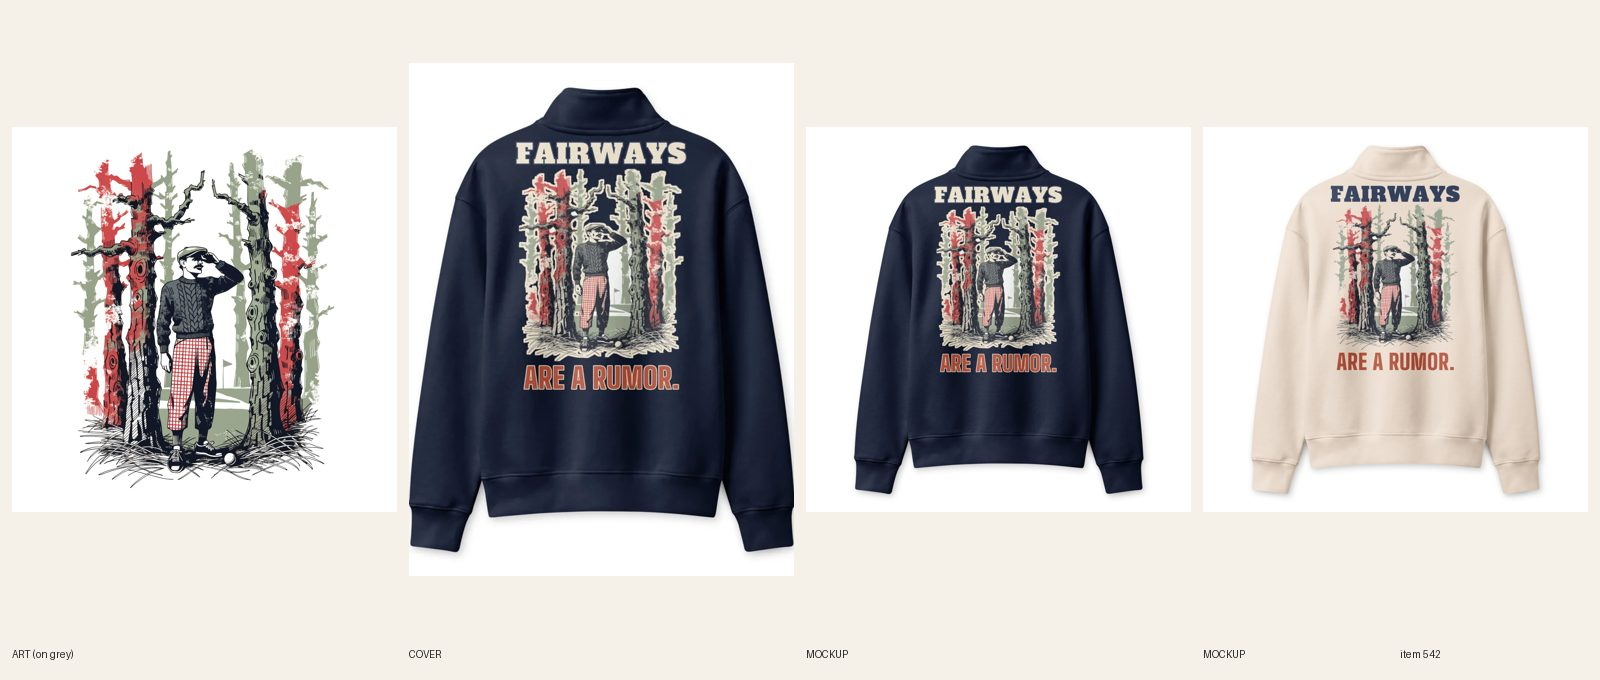
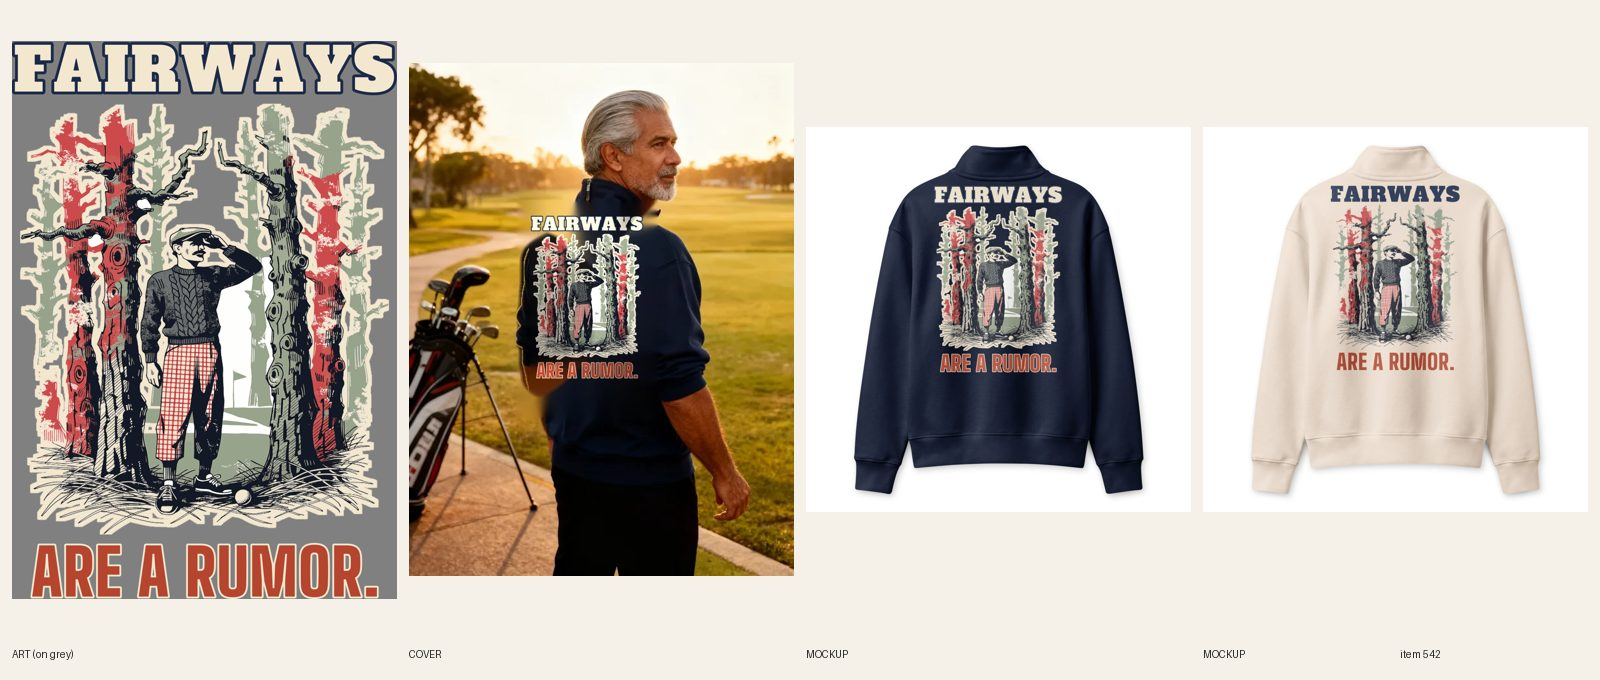
[B] review 542 Fairways Are a Rumor half zip (cover redo)
Claude-Session: https://claude.ai/code/session_01NqrZ4Fz461FLJisEJ9m3es

diff --git a/src/data/covers.ts b/src/data/covers.ts
@@ -530,7 +530,7 @@ export const covers: Record<string, { src: string; alt: string }> = {
   'unisex-pitbull-velvet-hippo-social-club-hoodie': { src: '/covers/unisex-pitbull-velvet-hippo-social-club-hoodie.webp', alt: 'Man and woman in matching sand Velvet Hippo Social Club pitbull hoodies smiling at a neighborhood dog park on a crisp fall morning with a pit bull at their feet' },
   'womens-softball-mom-travel-ball-took-my-saturdays-graphic-tee': { src: '/covers/womens-softball-mom-travel-ball-took-my-saturdays-graphic-tee.webp', alt: 'Woman in a ball cap at a travel-ball tournament with bleachers and a backstop behind her and a cooler beside her wearing the Travel Ball Took My Saturdays navy tee' },
   'mens-gym-twelve-labors-zero-cardio-hoodie': { src: '/covers/mens-gym-twelve-labors-zero-cardio-hoodie.webp', alt: 'Man in a sand Twelve Labors. Zero Cardio. gym hoodie smiling in a snowy garage gym with a squat rack and a treadmill with a towel on it behind him' },
-  'mens-golf-fairways-are-a-rumor-half-zip': { src: '/covers/mens-golf-fairways-are-a-rumor-half-zip.webp', alt: 'Navy half zip pullover seen from the back with a golfer in a flat cap shading his eyes among tall pines under FAIRWAYS in cream capitals and ARE A RUMOR. in faded red' },
+  'mens-golf-fairways-are-a-rumor-half-zip': { src: '/covers/mens-golf-fairways-are-a-rumor-half-zip.webp', alt: 'Man in a navy half zip pullover seen from behind on a golf course first tee at golden hour, the back print of a golfer among tall pines under FAIRWAYS in cream capitals and ARE A RUMOR. in faded red' },
   'mens-dog-dad-unpaid-doorman-graphic-tee': { src: '/covers/mens-dog-dad-unpaid-doorman-graphic-tee.webp', alt: 'Man with thick dark wavy hair and a full trimmed beard smiling in a cream Dog Dad Unpaid Doorman tee in a sunny back porch doorway with a scruffy mixed-breed dog sitting at his feet' },
   'mens-christian-rebuilt-by-a-carpenter-graphic-tee': { src: '/covers/mens-christian-rebuilt-by-a-carpenter-graphic-tee.webp', alt: 'Man with short grey hair and a salt-and-pepper beard smiling in a cream Rebuilt by a Carpenter tee in a sunlit woodshop with hand tools on the wall behind him' },
   'womens-fishing-out-fished-him-again-graphic-tee': { src: '/covers/womens-fishing-out-fished-him-again-graphic-tee.webp', alt: 'Woman with dark wavy hair and light freckles smiling in a cream Out-Fished Him. Again. tee on a wooden lake dock at golden hour with a tackle box and a fishing rod beside her' },

diff --git a/docs/pipeline/542-golf-half-zip-fairways-are-a-rumor.md b/docs/pipeline/542-golf-half-zip-fairways-are-a-rumor.md
@@ -1,11 +1,10 @@
-status: REDO
+status: REVIEW
 lane: B
 type: new
 id: 542
 handle: mens-golf-fairways-are-a-rumor-half-zip
 kd: 8
 shopify: gid://shopify/Product/15364624613680
-cover: temp
 ---
 ## Men's Golf – Fairways Are a Rumor Half Zip
 - **Blank:** Half zip pullover Bella+Canvas 4740 (Printful #1631); copy facts from the Printful spec only (R7.1). This blank has NO large front placement (see #235 and #421 logs): the big print goes on the back (back_large_dtf, about 15 x 18 in area) and the same art, fitted, on the left chest (chest_left_dtf), synced with scripts/pf-dtf-sync.py. No back-neck logo (no such placement on this blank). Back print at least 12 in wide.
@@ -31,3 +30,4 @@ cover: temp
 - 2026-10-18 03:10 UTC director: brief written, READY (lane B thin page: half-zip-pullovers at 2 live; KD 8 phrase, 580-favorite golf quarter zip proof).
 - 2026-10-18 03:46 UTC [B]: built DRAFT gid://shopify/Product/15364624613680 (Bella+Canvas 4740 #1631, Dust + Navy x XS-3XL = 14, $54.99 no compare-at, productType Half Zip Pullover, category aa-1-13-14), sync product 482676026 synced 14/14. Art: Recraft v4 one call (kept first), horizontally stretched 10% so the back print is 12.4 in wide (15x18 in area), lettering via compose-print (FAIRWAYS Alfa Slab 470, ARE A RUMOR. Big Shoulders 900, 500). Two files: dark-ink for Dust (navy/red), cream-halo + cream/navy keyline for Navy; chest_left_dtf gets the art alone (no words). Synced with a two-file PUT (back_large_dtf + chest_left_dtf per color; pf-dtf-sync takes one file only). R6.2: no ring, panel or typeset line in the art; no frame or badge. Mockups: v2 flat front+back per color, variant images = the back view. Copy: 6 FAQs 46-54 words, order-by Dec 8. COVER: two fal attempts failed (1: back print cropped by the body turn, 'RWAYS / RE A RUMOR'; 2: model rendered the print on the FRONT under the zipper, wrong product), so cover: temp = Printful Navy back mockup (as #421); registry #882 released; audit WARN on cover alt expected. fal $0.12. Director may spend a third cover attempt.
 - 2026-10-18 04:20 UTC director: REDO (cover only; art, copy and sync are good). 1) R6.1/R6.3: slide 1 must be a fal lifestyle cover with a man (men's), not the flat back mockup. Fal is funded, so temp covers no longer ship. Pose him from behind or three-quarter back on a wooded fairway edge so the back print shows, using the back Navy mockup as --design; flatten onto the garment color (R6.7). 2) If the model garbles FAIRWAYS / ARE A RUMOR., composite the print from the mockup (R6.9 Doe-Eyed method). One extra attempt per R6.9.
+- 2026-10-18 06:55 UTC builder [B]: REDO cover done. Registry #882 man, Navy back mockup as --design, seedream try 1 (fal ~$0.06): turned three-quarter back on a first tee, hood-less half zip, but the model garbled ARE A RUMOR (arm over the A) and shrank the art, so composited the exact Navy print file onto the back (R6.9, 175 px of 600 wide); every word reads, hair and arms clear of it. Faint inpaint softness at the left sleeve edge only. Art, copy and sync unchanged.

diff --git a/docs/model-registry.md b/docs/model-registry.md
@@ -684,7 +684,7 @@ Rows 11–43 were re-pointed on 2026-10-08 when the briefs were rewritten from d
 | 897 | Thai-American man, mid 30s, short black hair with a messy fringe, thin black-framed glasses, clean-shaven, slim build | USED 2026-10-18 — #557 Cant Cats on Me tee cover (seedream attempt 1, hands in pockets, print clear) |
 | 898 | Dominican-American woman, late 20s, curly dark-brown hair in a high bun, small gold nose ring, curvy build | USED 2026-10-18 — #558 Not My Turn zip hoodie cover (seedream attempt 1, back view, hood zipper line painted out, bun clear of print) |
 | 899 | Cherokee woman, late 40s, long straight black hair with grey strands in a low braid, small turquoise studs, medium build | USED 2026-10-18 — #559 If It's Brown, Lie Down crewneck cover (seedream attempt 2: braid behind her, hands in pockets, print clear) |
-| 882 | Cuban-American man, late 50s, short silver hair combed back, trimmed silver beard, tanned skin, medium build | RELEASED 2026-10-18 — #542 cover attempts failed (print shown on front under the zipper / back print cropped by the turn); temp mockup cover used, free to reuse |
+| 882 | Cuban-American man, late 50s, short silver hair combed back, trimmed silver beard, tanned skin, medium build | USED 2026-10-18 — #542 Fairways Are a Rumor half zip cover (redo attempt 3, print composited R6.9) |
 | 883 | Polish-American man, early 60s, grey flat-top crew cut, clean-shaven, ruddy cheeks, barrel-chested build | USED 2026-10-18 — #543 Should've Been Here Yesterday tee cover (fal Seedream, lake dock at sunrise; try 1 kept) |
 | 884 | Ghanaian-American man, mid 20s, low taper fade with a part line, clean-shaven, lean muscular build | USED 2026-10-18 — #544 Rack Your Weights. Respectfully. Tee cover (brief) |
 | 885 | Ethiopian-American woman, early 30s, long box braids tied back in a high ponytail, small silver studs, muscular athletic build | USED 2026-10-18 — #545 Mid-Set. Not Interested. Tee cover (brief) |

diff --git a/docs/intake-log.md b/docs/intake-log.md
@@ -983,3 +983,4 @@ for the record, but treat this one as current for these 3 products.
 2026-10-17 15:03 UTC — [A] ART-NEXT #446 DRAFT built (no art/sync/images; fal empty): womens-chihuahua-cold-since-birth-zip-hoodie.
 2026-10-17 15:03 UTC — [A] Run summary (fal empty, temp-cover mode): ART-NEXT drafts built for #401 #402 #403 #444 #445 #446. No buildable twins: every READY twin waits on a source tee that is still ART-NEXT (#273 #275 #283 #318 #386 #388 #390) and the REDO twins need the R6.2 hand re-letter / new art (fal). Price chore not attempted (audit crashes in sandbox per lane B). Lock released.
 2026-10-17 22:57 UTC — [C] REVIEW #493 (REDO: black bar erased, re-linked, new mockups).
+2026-10-18 06:34 UTC — [B] REVIEW #542 Men's Golf Fairways Are a Rumor half zip REDO (cover only: man on first tee, exact print composited R6.9; fal $0.06).
